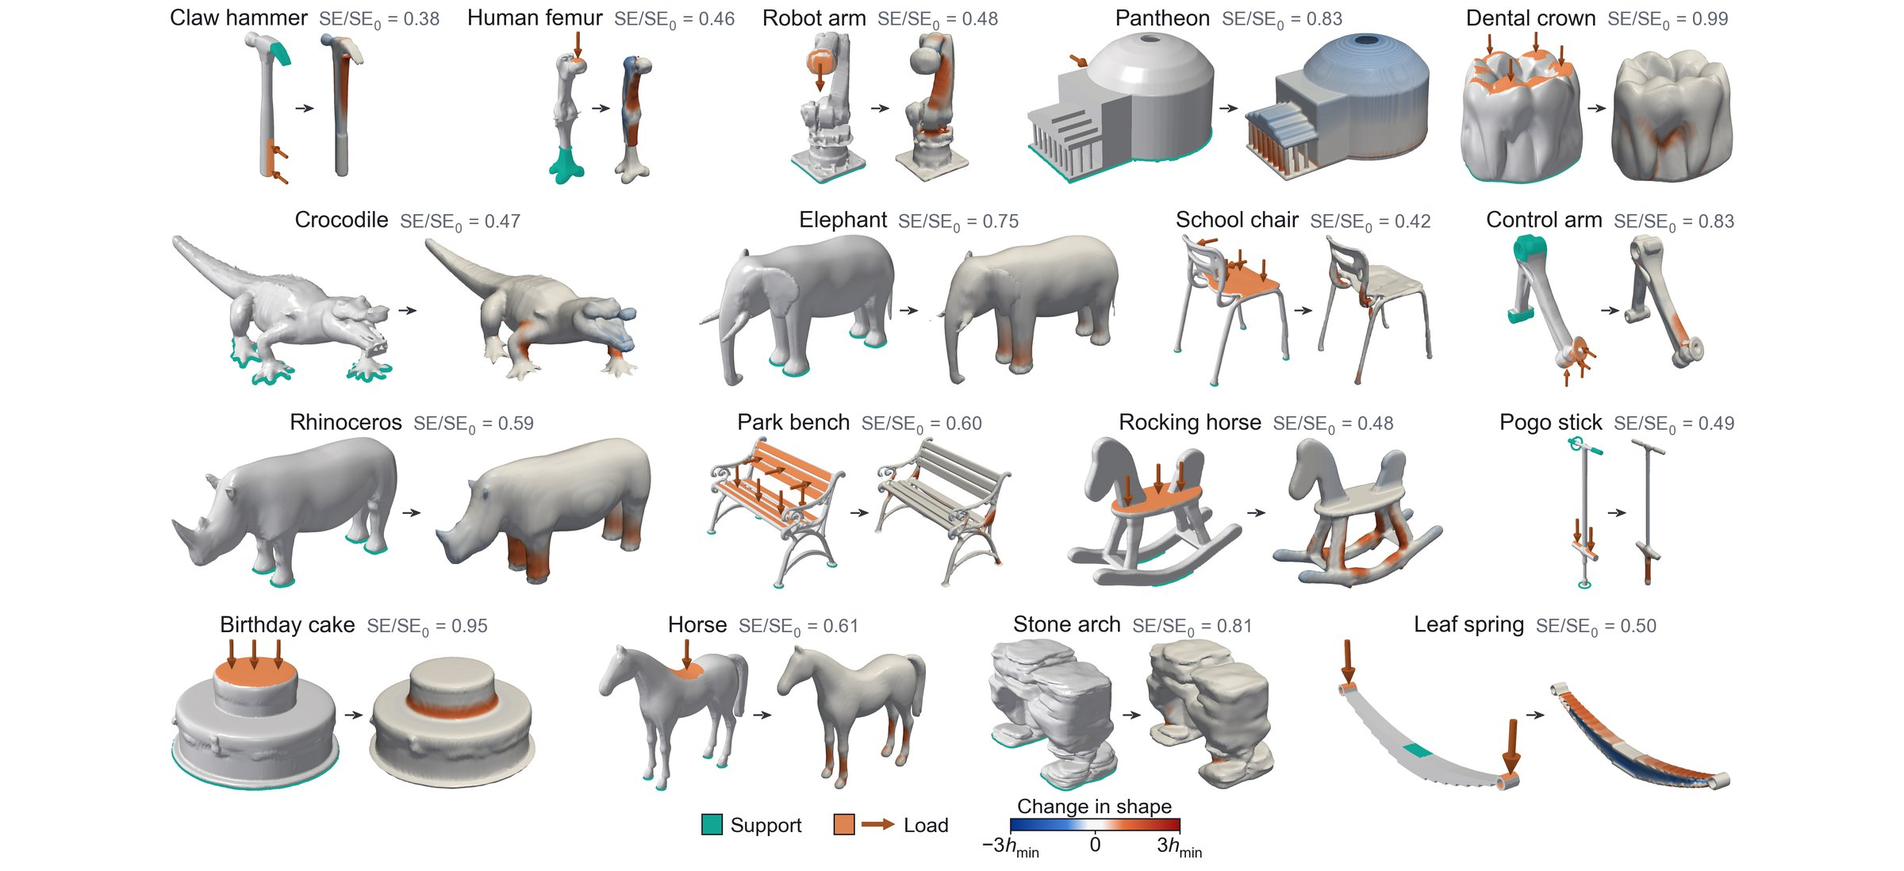
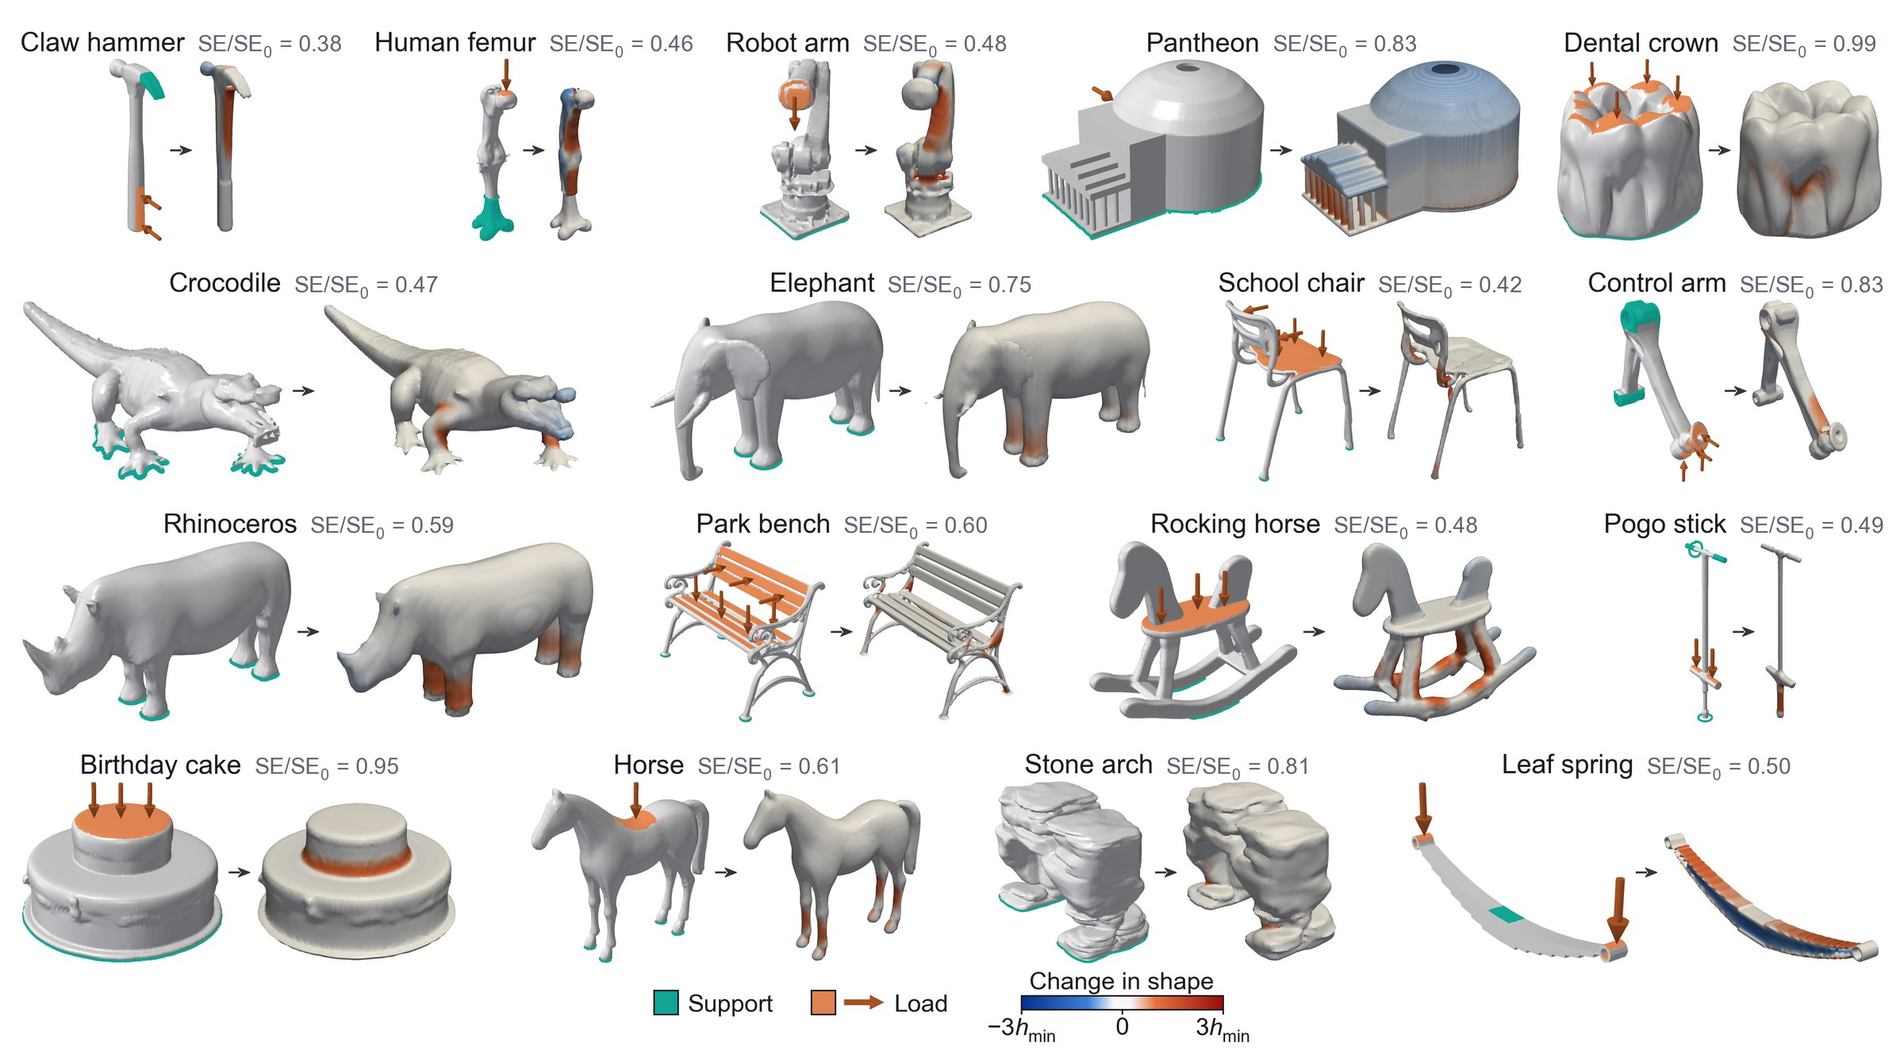
Proofread and update MechFoundry project page

diff --git a/mechfoundry/index.html b/mechfoundry/index.html
@@ -86,6 +86,8 @@
     .ui-shot { border: 1px solid var(--line); }
     .pair { display: grid; grid-template-columns: 1fr 1fr; gap: 16px; }
     .pair video { border: 1px solid var(--line); }
+    .pair figure { margin: 0; }
+    .vlabel { font-size: 14px; font-weight: 600; margin-bottom: 6px; }
 
     .viz {
       background: #fff; color: #1b1a22; border: 1px solid var(--line); border-radius: 8px;
@@ -212,7 +214,7 @@
   <video controls autoplay muted loop playsinline preload="metadata" poster="static/img/demo_poster.jpg" width="1920" height="1080">
     <source src="static/video/demo.mp4" type="video/mp4">
   </video>
-  <p class="cap" style="text-align:center">From the prompt “simulate a park bench”, the AI agent operator generates the shape, poses supports and loads, assigns materials, solves the nonlinear response, and optimizes the design.</p>
+  <p class="cap" style="text-align:center">From the prompt “simulate a park bench”, the AI agent operator generates the shape, segments it into parts, poses supports and loads, assigns materials and solves the nonlinear response. The design can then optionally be optimized for load-carrying ability. The video ends on 21 of the 50 objects the operator ran autonomously.</p>
   </div>
 </section>
 
@@ -226,34 +228,34 @@
 
 <section id="gallery">
   <h2>From a few words to a solved simulation, for 50 objects</h2>
-  <p class="sub">The agent was given only a short description of each object, such as “a park bench”. From there it generated the shape, decided where the object is supported and loaded, assigned materials and ran the simulation without further input. On average a session took 6.5 minutes and cost US$1.3 at API price.</p>
+  <p class="sub">The agent was given only a short description of each object, such as “a park bench”. It works from an operator skill, a set of generic instructions, reference material and scripts that frame its role as that of an engineer. Following it, the agent first wrote a case brief stating how the object is used, where it is held, what loads it and how large each load is. From there it generated the shape, decided where the object is supported and loaded, assigned materials and ran the simulation without further input. On average a session took 6.5 minutes and cost US$1.3 at API price.</p>
   <img width="2800" height="1711" class="fig" src="static/img/gallery.jpg" alt="50 generated objects, each deformed under the loading case the agent posed" loading="lazy">
-  <p class="cap">Each object was posed, simulated and reviewed by the AI agent operator (Claude Code with Opus 5.5) from a few words of description, across 10 categories from household items to landmarks. Color: displacement magnitude. Gray outline: undeformed shape.</p>
+  <p class="cap">Each object was posed, simulated and checked by the AI agent operator (Claude Code with Opus 5.5) from a few words of description, across 10 categories from household items to landmarks. Color: displacement magnitude. Gray outline: undeformed shape.</p>
 </section>
 
 <section id="method">
   <h2>Making every step of structural analysis automatable for an AI agent</h2>
-  <p class="sub">Shapes produced by generative models often contain disconnected pieces and self-intersections, which conventional meshers reject. They also have no CAD faces on which to place loads and no division into parts. MechFoundry stores each shape as a signed distance field on an adaptive octree that does not need to follow the surface, and it splits the surface into parts so that supports, loads and materials can be assigned part by part.</p>
+  <p class="sub">Shapes produced by generative models often contain disconnected pieces and self-intersections, which conventional tetrahedral meshers reject. They also have no CAD faces on which to place loads and no division into parts. MechFoundry stores each shape as a signed distance field on an adaptive octree that does not need to follow the surface, and it splits the surface into parts so that supports, loads and materials can be assigned part by part.</p>
   <img width="2400" height="1960" class="fig" src="static/img/overview.jpg" alt="Comparison of workflows and the MechFoundry pipeline" loading="lazy">
-  <p class="cap"><b>a,</b> Generated shapes break a general-purpose agent at every step of a conventional workflow; MechFoundry makes each step automatable. <b>b,</b> Shape generation, segmentation, AI-assisted supports, loads and materials, and a differentiable diffuse Nitsche solver on an adaptive octree in NVIDIA Warp.</p>
+  <p class="cap"><b>a,</b> Generated shapes can obstruct a general-purpose agent at every step of a conventional workflow (middle row, illustrative); MechFoundry makes each step automatable. <b>b,</b> Shape generation, segmentation, AI-assisted supports, loads and materials, and a differentiable diffuse Nitsche solver on an adaptive octree in NVIDIA Warp.</p>
 </section>
 
 <section id="sessions">
   <h2>The agent decides how each object is used, held, loaded and made</h2>
   <p class="sub">Before computing anything, the agent writes down how the object is used, where it is held, what loads it and how large each load is. For example, the park bench is held at its four feet and loaded on the seat and backrest, while the hammer gets a steel head and a wooden handle. Each row shows these choices followed by the solved deformation.</p>
   <img width="2400" height="2298" class="fig" src="static/img/agentic_results.jpg" alt="Six autonomous sessions: shape, supports and loads, materials, deformed shape" loading="lazy">
-  <p class="cap">Six of the 50 sessions, one per row: the operator’s tokens and time, the generated shape, supports (teal) and loads (orange), per-part Young’s modulus, and the deformed shape.</p>
+  <p class="cap">Six of the 50 sessions, one per row: the session’s tokens and wall-clock time, the generated shape, supports (teal) and loads (orange), per-part Young’s modulus, and the deformed shape.</p>
 </section>
 
 <section id="grades">
   <h2>How language-model reviewers graded the agent’s engineering judgment</h2>
-  <p class="sub">There is no test suite for whether a loading case is the right one, so we gave all 50 objects to Claude Haiku 5.5, Sonnet 5.5 and Opus 5.5 as operators and had two panels of reviewers grade every session. One panel ran three Claude Fable 5.1 agents, from the same model family as the operators, and the other ran three GPT-6-Astra agents. Each reviewer graded the geometry, the supports and loads, and the materials as high, moderate or low, and the bars show the majority vote. The Astra panel was much stricter, and the two panels agreed only slightly to fairly (Cohen’s kappa 0.19–0.25), so the grades are a first indication of where the agent’s judgment holds and where it fails, not a benchmark.</p>
+  <p class="sub">There is no test suite for whether a loading case is the right one, so we gave all 50 objects to Claude Haiku 5.5, Sonnet 5.5 and Opus 5.5 as operators and had two panels of reviewers grade every session. One panel ran three Claude Fable 5.1 agents, from the same model family as the operators, and the other ran three GPT-6-Astra agents. Each reviewer graded the geometry, the supports and loads, and the materials as high, moderate or low, and the bars show the majority vote (the median when all three differ). The Fable panel graded higher than the Astra panel in most sessions where the two differed, and the two panels agreed slightly to fairly (Cohen’s kappa 0.19–0.25), so the grades are a first indication of where the agent’s judgment holds and where it fails, not a benchmark.</p>
   <div class="viz" id="rate">
-    <div class="viz-legend"><span><i class="g-H"></i>High</span><span><i class="g-M"></i>Moderate</span><span><i class="g-L" style="outline:1px solid #cfc6ef"></i>Low</span><span><i class="g-N"></i>Session not finished</span></div>
+    <div class="viz-legend"><span><i class="g-H"></i>High</span><span><i class="g-M"></i>Moderate</span><span><i class="g-L" style="outline:1px solid #cfc6ef"></i>Low</span><span><i class="g-N"></i>Not graded (setting never produced)</span></div>
     <div class="rate-grid" id="rate-grid"></div>
     <div class="viz-tip" id="rate-tip"></div>
   </div>
-  <p class="cap">Number of the 50 objects at each grade, by the majority vote of three reviewers. Haiku 5.5 did not finish 4 sessions.</p>
+  <p class="cap">Number of the 50 objects at each grade, by the majority vote of three reviewers. Haiku 5.5 did not finish 4 sessions; in three of them some settings were never produced and could not be graded (gray).</p>
   <div class="viz" id="cost" style="margin-top: 22px;">
     <div class="rate-panel"><h3>Operator cost per session <span class="unit" style="font-weight:400;color:var(--ink2);font-size:13px">(US$ at API price, log scale; one dot per object)</span></h3></div>
     <svg id="cost-svg" style="width:100%;height:auto"></svg>
@@ -264,44 +266,44 @@
 
 <section id="variations">
   <h2>Generating varied simulations of one object on request</h2>
-  <p class="sub">When asked for variety rather than realism, the agent produced nine robot arms from a single instruction, nine material assignments for a hamburger and nine loading cases for a hammer. Every variant was then solved with the same workflow, at a lower cost than a full session.</p>
+  <p class="sub">From one instruction, the agent produced nine robot arms that differ in generation seed and route. Asked for cases that vary as widely as possible, it wrote nine material assignments for a hamburger and nine loading cases for a hammer. Each variant was solved with the same workflow, and each further variation is cheaper than a fresh session starting from a minimal description.</p>
   <img width="2000" height="2368" class="fig" src="static/img/showcase.jpg" alt="Nine robot arms, nine hamburger material assignments and nine hammer loading cases, with deformed shapes" loading="lazy">
-  <p class="cap"><b>Shapes:</b> nine robot arms from one instruction, differing in generation seed and route. <b>Materials:</b> nine material assignments for the parts of a hamburger. <b>Supports &amp; loads:</b> nine loading cases for a claw hammer. Left: inputs set by the agent (Sonnet 5.5) and mean cost per session. Right: deformed shapes.</p>
+  <p class="cap"><b>Shapes:</b> nine robot arms from one instruction, differing in generation seed and route. <b>Materials:</b> nine material assignments for the parts of a hamburger. <b>Supports &amp; loads:</b> nine loading cases for a claw hammer. Left: the instruction and the mean tokens and time per session. Middle: inputs set by the agent (Sonnet 5.5). Right: deformed shapes.</p>
 </section>
 
 <section id="optimization">
   <h2>Optimizing the design with a differentiable solver</h2>
-  <p class="sub">Because the solver is differentiable, the sensitivity of the objective to the shape is obtained by automatic differentiation and the adjoint method. Shape optimization moves the existing surface. Topology optimization also updates a hidden phase field inside the body, which allows new holes to form. Both runs reduce the table to half its volume while keeping it as stiff as possible.</p>
+  <p class="sub">Because the solver is differentiable, the sensitivity of the objective to the shape is obtained by automatic differentiation and the adjoint method. Shape optimization moves the existing surface. Topology optimization also lets new holes form inside the body. Both runs reduce the table to half its volume while keeping it as stiff as possible.</p>
   <div class="pair">
-    <video controls autoplay muted loop playsinline preload="metadata" poster="static/img/shape_opt_poster.jpg" width="1920" height="978">
+    <figure><div class="vlabel">Shape optimization</div><video aria-label="Shape optimization of a table over 101 iterations" controls autoplay muted loop playsinline preload="metadata" poster="static/img/shape_opt_poster.jpg" width="1920" height="978">
       <source src="static/video/shape_opt.mp4" type="video/mp4">
-    </video>
-    <video controls autoplay muted loop playsinline preload="metadata" poster="static/img/hidden_phi_poster.jpg" width="1920" height="980">
+    </video></figure>
+    <figure><div class="vlabel">Topology optimization</div><video aria-label="Topology optimization of a table over 91 iterations" controls autoplay muted loop playsinline preload="metadata" poster="static/img/hidden_phi_poster.jpg" width="1920" height="980">
       <source src="static/video/hidden_phi.mp4" type="video/mp4">
-    </video>
+    </video></figure>
   </div>
-  <p class="cap"><b>Left:</b> shape optimization (101 iterations, 4.0 min). <b>Right:</b> topology optimization, in which a hidden phase field φ̄ opens new cavities (91 iterations, 3.9 min). Both reduce the table to half its initial volume while minimizing compliance, on one RTX A6000 GPU.</p>
+  <p class="cap"><b>Shape optimization:</b> 101 iterations, 4.0 min. <b>Topology optimization:</b> new cavities open inside the table; 91 iterations, 3.9 min. Both reduce the table to half its initial volume while minimizing its strain energy under the load, on one RTX A6000 GPU.</p>
 </section>
 
 <section id="refinement">
   <h2>Refining generated shapes under the loads the agent posed</h2>
-  <p class="sub">We applied the same optimization to 17 bodies from the autonomous sessions, each under the supports and loads the agent had chosen for it. Material moves toward where the load is carried, so each body becomes stiffer while remaining recognizably the same object.</p>
-  <img width="2400" height="1098" class="fig" src="static/img/refine.jpg" alt="17 generated bodies before and after refinement, with supports, loads and change in shape" loading="lazy">
+  <p class="sub">We applied a short shape optimization to all 50 bodies from the autonomous sessions, each under the supports and loads the agent had chosen for it. It makes the body stiffer under the same loads while penalizing any growth in volume, and it stops before the surface moves far from the generated one, so each object stays recognizably the same. The 17 bodies with a visible refinement are shown.</p>
+  <img width="2400" height="1334" class="fig" src="static/img/refine.jpg" alt="17 generated bodies before and after refinement, with supports, loads and change in shape" loading="lazy">
   <p class="cap">Left of each pair: supports (teal) and loads (orange) posed by the agent. Right: change in shape from −3<i>h</i><sub>min</sub> (blue, material removed) to 3<i>h</i><sub>min</sub> (red, material added), with <i>h</i><sub>min</sub> the finest octree cell size. SE/SE<sub>0</sub>: strain energy relative to the generated body; lower is stiffer under the same load.</p>
 </section>
 
 <section id="interface">
   <h2>Running the workflow in a web interface, by an agent or by a person</h2>
   <p class="sub">The same workflow runs in a web interface. The left column lists past conversations, the middle column holds the conversation with each step and its approval gate, and the right column shows the current result in 3D along with the GPU and CPU load. A person can answer every gate by hand, or start an agent session in which Claude Code drives the same steps and reports what it did.</p>
-  <img width="2400" height="1429" class="fig ui-shot" src="static/img/ui_agent.jpg" alt="Web interface showing an agent-operated park bench session with the agent's report and the displacement result" loading="lazy">
+  <img width="2400" height="1350" class="fig ui-shot" src="static/img/ui_agent.jpg" alt="Web interface showing an agent-operated park bench session with the agent's report and the displacement result" loading="lazy">
   <p class="cap"><b>Agent-operated.</b> After re-solving a park bench with a stiffer wood, the agent reports what it changed, the results and the caveats, while the viewer shows the displacement magnitude.</p>
-  <img width="2400" height="1429" class="fig ui-shot" src="static/img/ui_user.jpg" alt="Web interface showing a user-operated single-seat sofa session with the per-part material card and the displacement result" loading="lazy" style="margin-top: 22px;">
+  <img width="2400" height="1350" class="fig ui-shot" src="static/img/ui_user.jpg" alt="Web interface showing a user-operated single-seat sofa session with the per-part material card and the displacement result" loading="lazy" style="margin-top: 22px;">
   <p class="cap"><b>User-operated.</b> A single-seat sofa: the per-part material card, where inferred values can be edited before approval, and the displacement after the person ran the solve.</p>
 </section>
 
 <section id="comparison">
   <h2>Comparing the diffuse Nitsche solutions with conventional finite elements</h2>
-  <p class="sub">The solver does not use a mesh that follows the surface, so we solved each of the 50 sessions again with conventional finite elements on three body-fitted tetrahedral meshes generated by TetGen. The body-fitted solves are implemented in the same NVIDIA Warp framework and run on the same GPU, so the timings compare the methods rather than the software. Three generated surfaces intersect themselves and TetGen could not mesh them, leaving 47 objects. At the default octree level 7, the displacements of the two methods differ by a median of 4.6–6.6%, and by 2.7–3.0% one level finer. Preparing the octree takes a few seconds or less, while building a tetrahedral mesh for a generated surface takes 7 to 20 times longer, and the diffuse Nitsche solve is at least as fast as the body-fitted ones.</p>
+  <p class="sub">The diffuse Nitsche method solves on an adaptive octree of hexahedral cells that does not follow the surface, so we solved each of the 50 sessions again with conventional finite elements on three body-fitted tetrahedral meshes generated by TetGen. The body-fitted solves use the same Newton solver, written in NVIDIA Warp, on the same machine, with their linear systems solved directly on the CPU. Three generated surfaces intersect themselves and TetGen could not mesh them, leaving 47 objects. At the default octree level 7, the displacements of the two methods differ by a median of 4.6–6.6%, and by 2.7–3.0% one level finer. Preparing the octree takes a few seconds or less, while building a tetrahedral mesh for a generated surface takes 7 to 20 times longer, and the diffuse Nitsche solve is at least as fast as the body-fitted ones.</p>
   <div class="viz" id="viz">
     <div class="viz-legend"><span><i style="background:var(--l7)"></i>Octree level 7 (default)</span><span><i style="background:var(--l8)"></i>Octree level 8</span></div>
     <div class="viz-grid">
@@ -312,12 +314,12 @@
     </div>
     <div class="viz-tip" id="viz-tip"></div>
   </div>
-  <p class="cap">Medians over the 47 objects. Accuracy: difference between the diffuse Nitsche solution and the solution on each body-fitted mesh of linear tetrahedra, after removing rigid-body motion. Body-fitted meshes: <b>matched DOFs</b>, with as many nodes as the octree; <b>matched surface</b>, with surface edges as fine as the finest octree cell; <b>graded</b>, fine at the surface and coarser inside. Preparation: octree, boundary conditions and solver setup for diffuse Nitsche; surface resizing, TetGen meshing, boundary mapping and solver setup for body-fitted meshes. Both methods are implemented in NVIDIA Warp; times on one GPU.</p>
+  <p class="cap">Medians over the objects each solution exists for: the 47 objects TetGen could mesh for the body-fitted solutions and the accuracy (46 at level 8, where one diffuse Nitsche solve did not fully converge), and all 50 for the diffuse Nitsche times (49 for its solve at level 8). Accuracy: difference between the diffuse Nitsche solution and the solution on each body-fitted mesh of linear tetrahedra, after removing rigid-body motion. Body-fitted meshes: <b>matched DOFs</b>, with as many nodes as the octree; <b>matched surface</b>, with surface edges as fine as the finest octree cell; <b>graded</b>, fine at the surface and coarser inside. Preparation: octree, boundary conditions and solver setup for diffuse Nitsche; surface resizing, TetGen meshing, boundary mapping and solver setup for body-fitted meshes. Times are on one NVIDIA RTX A6000 GPU and one AMD Ryzen Threadripper 3970X CPU.</p>
 </section>
 
 </main>
+<div style="height:40px"></div>
 
-<footer>© 2026 the authors · <a href="https://github.com/LuoXueling/MechFoundry">GitHub</a></footer>
 
 <div id="lb"><img alt=""></div>
 <script>
@@ -326,10 +328,10 @@
   lb.addEventListener('click', () => lb.classList.remove('open'));
   document.addEventListener('keydown', e => { if (e.key === 'Escape') lb.classList.remove('open'); });
 
-  // Medians over 47 objects, from experiments/bodyfitted_vs_nitsche/summary/tables/tables.md
+  // Medians (n = 46-50, see caption), from experiments/bodyfitted_vs_nitsche/summary/tables/tables.md
   const VIZ = {
-    l2:    { groups: ['Matched DOFs', 'Matched surface', 'Graded'], l7: [6.6, 4.6, 4.8], l8: [2.7, 3.0, 2.8], unit: '%', dp: 1 },
-    h1:    { groups: ['Matched DOFs', 'Matched surface', 'Graded'], l7: [19, 16, 17],    l8: [8.4, 8.4, 8.1], unit: '%', lab7: ['19', '16', '17'] },
+    l2:    { groups: ['Matched DOFs', 'Matched surface', 'Graded'], l7: [6.6, 4.6, 4.8], l8: [2.7, 3.0, 2.8], unit: '%' },
+    h1:    { groups: ['Matched DOFs', 'Matched surface', 'Graded'], l7: [19, 16, 17],    l8: [8.4, 8.4, 8.1], unit: '%' },
     prep:  { groups: ['Diffuse Nitsche', 'Matched DOFs', 'Matched surface', 'Graded'], l7: [0.655, 7.31, 11.4, 8.26], l8: [2.18, 16.1, 43.5, 29.8], unit: 's', ours: 0 },
     solve: { groups: ['Diffuse Nitsche', 'Matched DOFs', 'Matched surface', 'Graded'], l7: [1.71, 1.95, 1.83, 1.86],  l8: [7.60, 7.91, 21.2, 8.39], unit: 's', ours: 0 },
   };
@@ -379,7 +381,7 @@
   ];
   (function () {
     const grid = document.getElementById('rate-grid'), rtip = document.getElementById('rate-tip'), rbox = document.getElementById('rate');
-    const names = ['High', 'Moderate', 'Low', 'Not finished'], cls = ['g-H', 'g-M', 'g-L', 'g-N'];
+    const names = ['High', 'Moderate', 'Low', 'Not graded (setting never produced)'], cls = ['g-H', 'g-M', 'g-L', 'g-N'];
     RATE.forEach(({ panel, data }) => {
       const pd = document.createElement('div'); pd.className = 'rate-panel'; pd.innerHTML = `<h3>${panel}</h3>`;
       for (const cat in data) {
@@ -437,7 +439,7 @@
         const lb = el('text', { x: x(t), y: H - B + 16, 'text-anchor': 'middle', 'font-size': 11.5, fill: 'var(--ink2)' }, svg); lb.textContent = '$' + t;
       });
       models.forEach((m, r) => {
-        const vals = COST[m], sorted = [...vals].sort((a, b) => a - b), med = (sorted[24] + sorted[25]) / 2;
+        const vals = COST[m], sorted = [...vals].sort((a, b) => a - b), med = Math.round((sorted[24] + sorted[25]) * 50 + 1e-6) / 100;  // median, rounded half-up to the cent
         const cy = T + rowH * (r + 0.5) + (narrow ? 10 : 0);
         if (narrow) {
           const ml = el('text', { x: L, y: cy - 30, 'font-size': 13, fill: '#1b1a22' }, svg);
